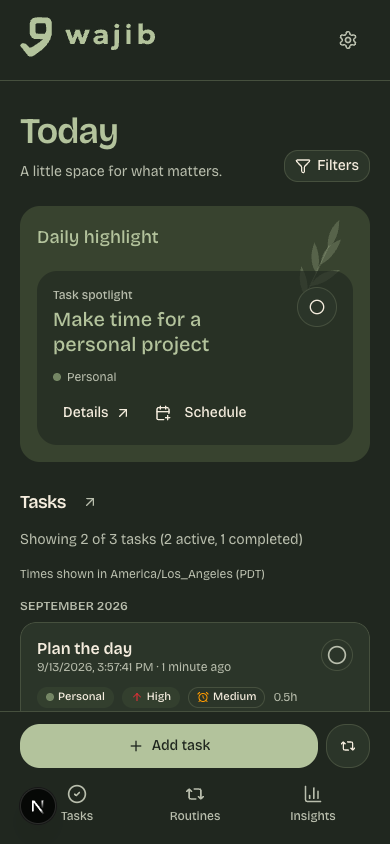
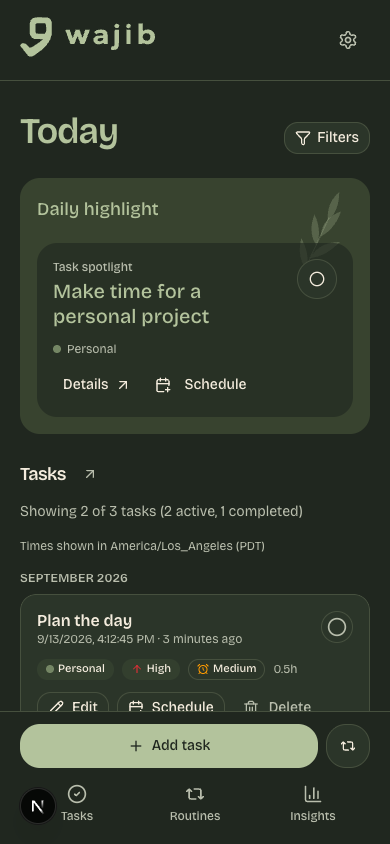
Remove little space tagline from Wajib
Remove the dashboard tagline and related sign-in wording, and refresh the desktop and mobile branding previews.

Changed region(s): [[0.0308, 0.4929, 0.9538, 0.8626], [0.0308, 0.154, 0.9538, 0.4929], [0.8308, 0.7085, 0.8923, 0.8009]]

diff --git a/components/dashboard/dashboard-content.tsx b/components/dashboard/dashboard-content.tsx
@@ -712,9 +712,6 @@ export function DashboardContent({
                   ? "Your progress"
                   : "Today"}
             </h1>
-            <p className="mt-2 text-sm text-muted-foreground sm:text-base">
-              A little space for what matters.
-            </p>
           </div>
           <div className="flex gap-2">
             <Button

diff --git a/app/auth/page.tsx b/app/auth/page.tsx
@@ -121,7 +121,7 @@ export default function AuthPage() {
               Welcome back
             </h1>
             <p className="text-sm text-muted-foreground">
-              A little space for your day. Sign in to continue.
+              Sign in to continue.
             </p>
           </div>
 
